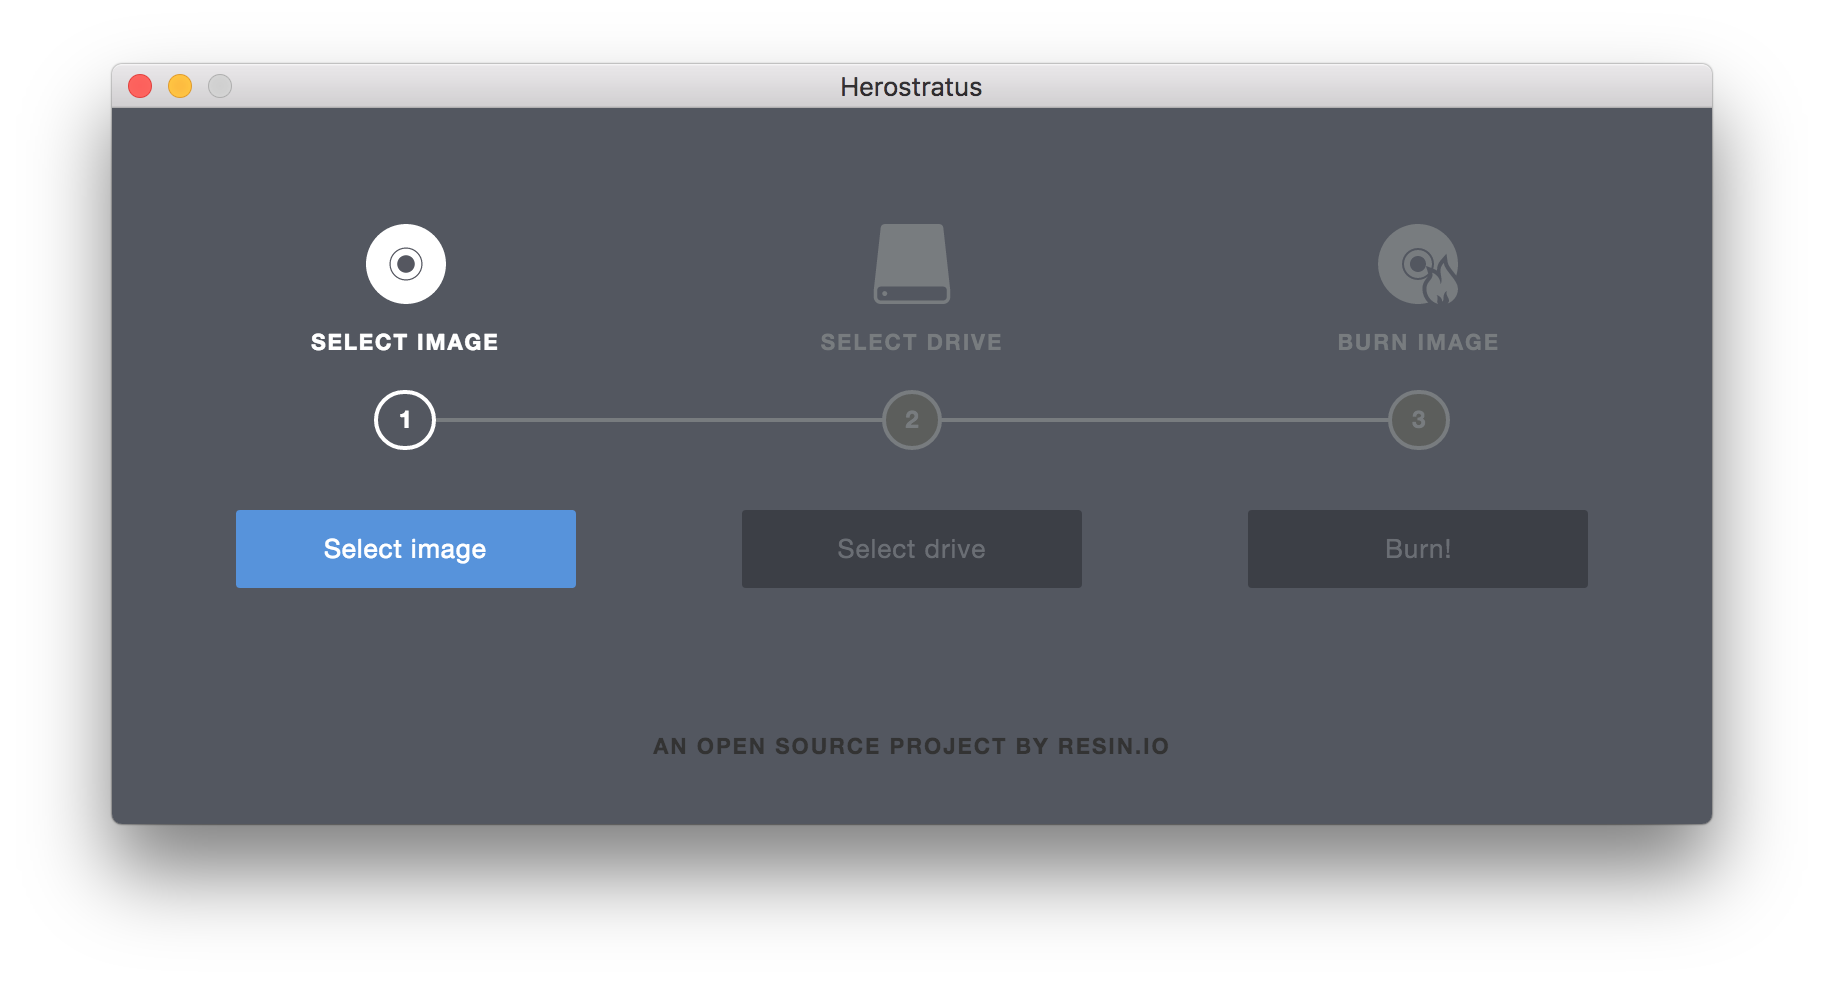
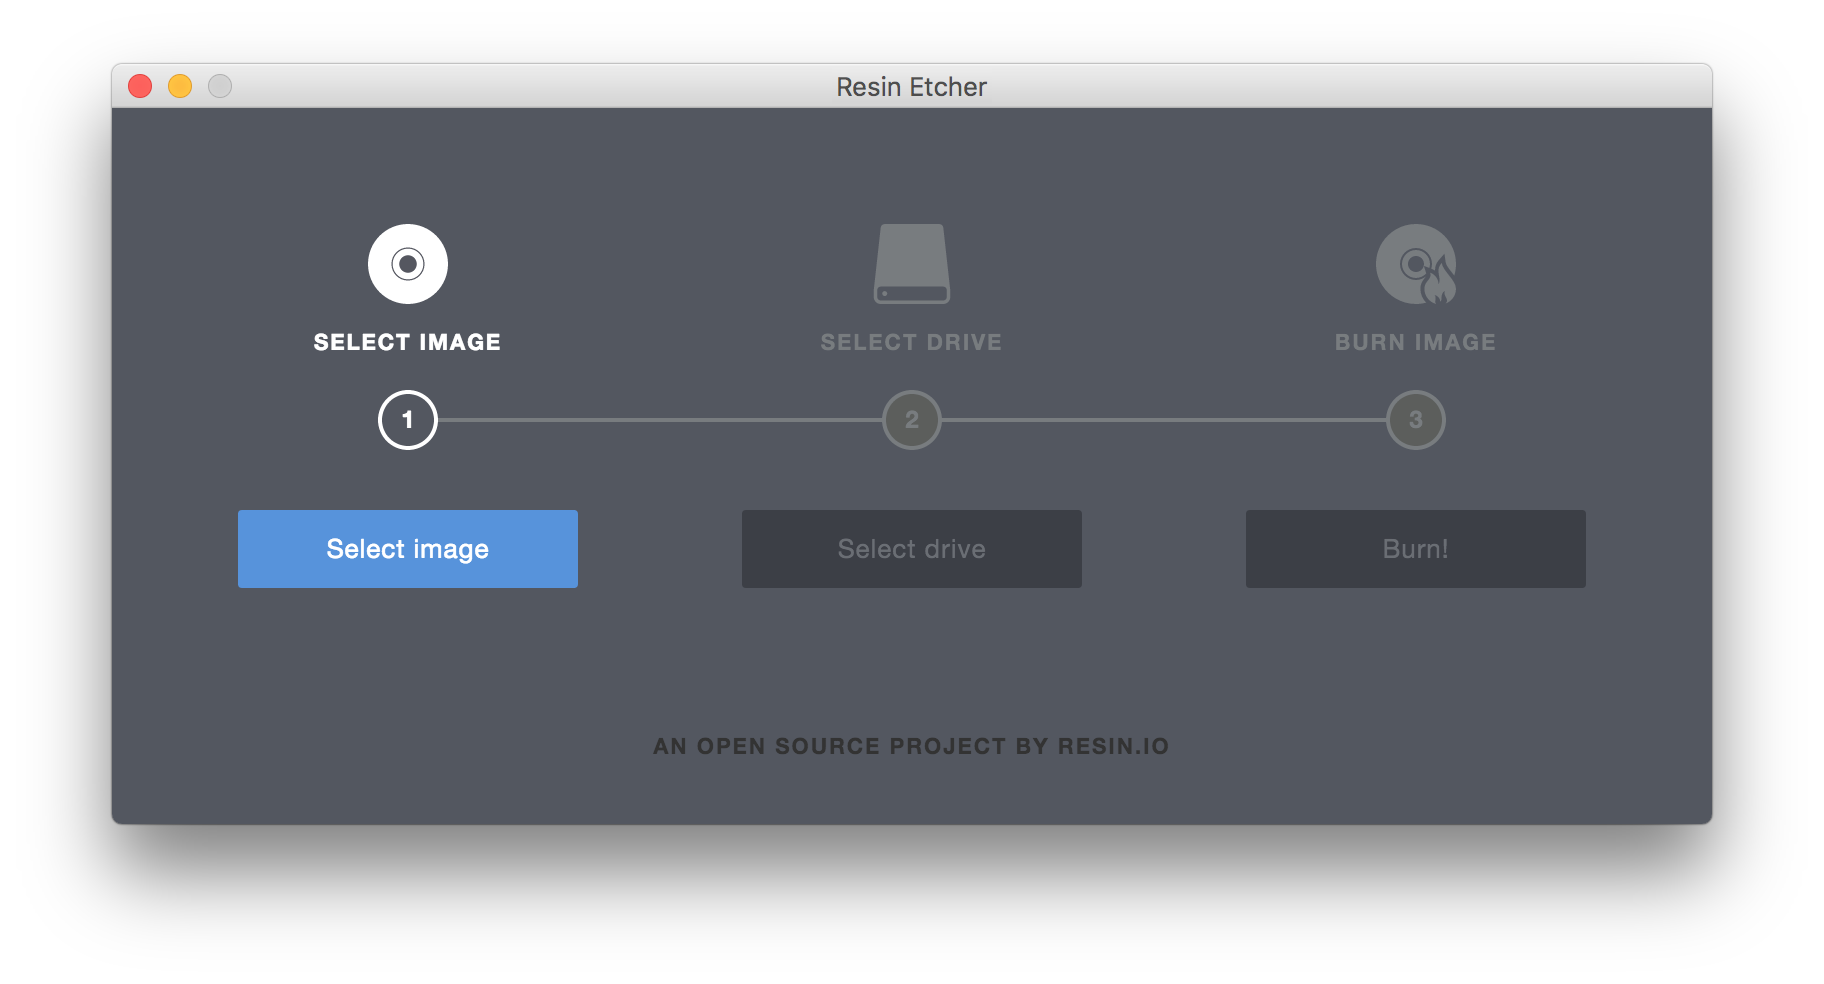
Rename Herostratus to Resin Etcher

diff --git a/build/browser/app.js b/build/browser/app.js
@@ -23,7 +23,7 @@
  */
 
 /**
- * @module herostratus
+ * @module ResinEtcher
  */
 
 var angular = require('angular');
@@ -37,14 +37,14 @@ require('./modules/drive-scanner');
 require('./modules/image-writer');
 require('./modules/path');
 
-var app = angular.module('Herostratus', [
+var app = angular.module('ResinEtcher', [
   'ui.bootstrap',
 
-  // Herostratus modules
-  'herostratus.path',
-  'herostratus.selection-state',
-  'herostratus.drive-scanner',
-  'herostratus.image-writer'
+  // Resin Etcher modules
+  'ResinEtcher.path',
+  'ResinEtcher.selection-state',
+  'ResinEtcher.drive-scanner',
+  'ResinEtcher.image-writer'
 ]);
 
 app.controller('AppController', function($q, DriveScannerService, SelectionStateService, ImageWriterService) {
@@ -122,7 +122,7 @@ app.controller('AppController', function($q, DriveScannerService, SelectionState
  */
 
 /**
- * @module herostratus.drive-scanner
+ * @module ResinEtcher.drive-scanner
  */
 
 var angular = require('angular');
@@ -139,7 +139,7 @@ if (window.mocha) {
   var dialog = remote.require('./src/dialog');
 }
 
-var driveScanner = angular.module('herostratus.drive-scanner', []);
+var driveScanner = angular.module('ResinEtcher.drive-scanner', []);
 
 driveScanner.service('DriveScannerRefreshService', function($interval) {
   'use strict';
@@ -300,7 +300,7 @@ driveScanner.service('DriveScannerService', function($q, DriveScannerRefreshServ
  */
 
 /**
- * @module herostratus.image-writer
+ * @module ResinEtcher.image-writer
  */
 
 var angular = require('angular');
@@ -312,7 +312,7 @@ if (window.mocha) {
   var writer = remote.require('./src/writer');
 }
 
-var imageWriter = angular.module('herostratus.image-writer', []);
+var imageWriter = angular.module('ResinEtcher.image-writer', []);
 
 imageWriter.service('ImageWriterService', function($q, $timeout) {
   'use strict';
@@ -466,13 +466,13 @@ imageWriter.service('ImageWriterService', function($q, $timeout) {
  */
 
 /**
- * @module herostratus.path
+ * @module ResinEtcher.path
  */
 
 var angular = require('angular');
 var path = require('path');
 
-var pathModule = angular.module('herostratus.path', []);
+var pathModule = angular.module('ResinEtcher.path', []);
 
 pathModule.filter('basename', function() {
   'use strict';
@@ -516,11 +516,11 @@ pathModule.filter('basename', function() {
  */
 
 /**
- * @module herostratus.selection-state
+ * @module ResinEtcher.selection-state
  */
 
 var angular = require('angular');
-var selectionState = angular.module('herostratus.selection-state', []);
+var selectionState = angular.module('ResinEtcher.selection-state', []);
 
 selectionState.service('SelectionStateService', function() {
   'use strict';

diff --git a/lib/index.html b/lib/index.html
@@ -1,7 +1,7 @@
 <!DOCTYPE html>
 <html>
   <head>
-    <title>Herostratus</title>
+    <title>Resin Etcher</title>
     <link rel="stylesheet" type="text/css" href="../node_modules/flexboxgrid/dist/flexboxgrid.css">
     <link rel="stylesheet" type="text/css" href="../build/css/main.css">
 
@@ -14,7 +14,7 @@
 
     <script src="../build/browser/app.js"></script>
   </head>
-  <body ng-app="Herostratus" ng-controller="AppController as app" style="display: none">
+  <body ng-app="ResinEtcher" ng-controller="AppController as app" style="display: none">
 
     <div class="content row middle-xs space-horizontal-large">
       <div class="col-xs">
@@ -120,7 +120,7 @@
     </div>
 
     <div class="text-center section-footer">
-      <hero-caption><span ng-click="app.open('https://github.com/resin-io/herostratus')">AN OPEN SOURCE PROJECT</span> BY <span ng-click="app.open('https://resin.io')">RESIN.IO</span></hero-caption>
+      <hero-caption><span ng-click="app.open('https://github.com/resin-io/resin-etcher')">AN OPEN SOURCE PROJECT</span> BY <span ng-click="app.open('https://resin.io')">RESIN.IO</span></hero-caption>
     </div>
   </body>
 </html>

diff --git a/lib/browser/app.js b/lib/browser/app.js
@@ -22,7 +22,7 @@
  */
 
 /**
- * @module herostratus
+ * @module ResinEtcher
  */
 
 var angular = require('angular');
@@ -36,14 +36,14 @@ require('./modules/drive-scanner');
 require('./modules/image-writer');
 require('./modules/path');
 
-var app = angular.module('Herostratus', [
+var app = angular.module('ResinEtcher', [
   'ui.bootstrap',
 
-  // Herostratus modules
-  'herostratus.path',
-  'herostratus.selection-state',
-  'herostratus.drive-scanner',
-  'herostratus.image-writer'
+  // Resin Etcher modules
+  'ResinEtcher.path',
+  'ResinEtcher.selection-state',
+  'ResinEtcher.drive-scanner',
+  'ResinEtcher.image-writer'
 ]);
 
 app.controller('AppController', function($q, DriveScannerService, SelectionStateService, ImageWriterService) {

diff --git a/lib/browser/modules/drive-scanner.js b/lib/browser/modules/drive-scanner.js
@@ -22,7 +22,7 @@
  */
 
 /**
- * @module herostratus.drive-scanner
+ * @module ResinEtcher.drive-scanner
  */
 
 var angular = require('angular');
@@ -39,7 +39,7 @@ if (window.mocha) {
   var dialog = remote.require('./src/dialog');
 }
 
-var driveScanner = angular.module('herostratus.drive-scanner', []);
+var driveScanner = angular.module('ResinEtcher.drive-scanner', []);
 
 driveScanner.service('DriveScannerRefreshService', function($interval) {
   'use strict';

diff --git a/lib/browser/modules/image-writer.js b/lib/browser/modules/image-writer.js
@@ -22,7 +22,7 @@
  */
 
 /**
- * @module herostratus.image-writer
+ * @module ResinEtcher.image-writer
  */
 
 var angular = require('angular');
@@ -34,7 +34,7 @@ if (window.mocha) {
   var writer = remote.require('./src/writer');
 }
 
-var imageWriter = angular.module('herostratus.image-writer', []);
+var imageWriter = angular.module('ResinEtcher.image-writer', []);
 
 imageWriter.service('ImageWriterService', function($q, $timeout) {
   'use strict';

diff --git a/lib/browser/modules/selection-state.js b/lib/browser/modules/selection-state.js
@@ -22,11 +22,11 @@
  */
 
 /**
- * @module herostratus.selection-state
+ * @module ResinEtcher.selection-state
  */
 
 var angular = require('angular');
-var selectionState = angular.module('herostratus.selection-state', []);
+var selectionState = angular.module('ResinEtcher.selection-state', []);
 
 selectionState.service('SelectionStateService', function() {
   'use strict';

diff --git a/lib/browser/modules/path.js b/lib/browser/modules/path.js
@@ -22,13 +22,13 @@
  */
 
 /**
- * @module herostratus.path
+ * @module ResinEtcher.path
  */
 
 var angular = require('angular');
 var path = require('path');
 
-var pathModule = angular.module('herostratus.path', []);
+var pathModule = angular.module('ResinEtcher.path', []);
 
 pathModule.filter('basename', function() {
   'use strict';

diff --git a/tests/browser/modules/selection-state.spec.js b/tests/browser/modules/selection-state.spec.js
@@ -6,7 +6,7 @@ require('../../../lib/browser/modules/selection-state');
 describe('Browser: SelectionState', function() {
   'use strict';
 
-  beforeEach(angular.mock.module('herostratus.selection-state'));
+  beforeEach(angular.mock.module('ResinEtcher.selection-state'));
 
   describe('SelectionStateService', function() {
 

diff --git a/tests/browser/modules/drive-scanner.spec.js b/tests/browser/modules/drive-scanner.spec.js
@@ -6,7 +6,7 @@ require('../../../lib/browser/modules/drive-scanner');
 describe('Browser: DriveScanner', function() {
   'use strict';
 
-  beforeEach(angular.mock.module('herostratus.drive-scanner'));
+  beforeEach(angular.mock.module('ResinEtcher.drive-scanner'));
 
   describe('DriveScannerRefreshService', function() {
 

diff --git a/tests/browser/modules/image-writer.spec.js b/tests/browser/modules/image-writer.spec.js
@@ -6,7 +6,7 @@ require('../../../lib/browser/modules/image-writer');
 describe('Browser: ImageWriter', function() {
   'use strict';
 
-  beforeEach(angular.mock.module('herostratus.image-writer'));
+  beforeEach(angular.mock.module('ResinEtcher.image-writer'));
 
   describe('ImageWriterService', function() {
 

diff --git a/lib/elevate.js b/lib/elevate.js
@@ -48,7 +48,7 @@ exports.require = function(app, callback) {
         app.dock.hide();
 
         sudoPrompt.exec(process.argv.join(' '), {
-          name: 'Herostratus'
+          name: 'Resin Etcher'
         }, function(error) {
           if (error) {
             console.error(error.message);

diff --git a/tests/browser/modules/path.spec.js b/tests/browser/modules/path.spec.js
@@ -7,7 +7,7 @@ require('../../../lib/browser/modules/path');
 describe('Browser: Path', function() {
   'use strict';
 
-  beforeEach(angular.mock.module('herostratus.path'));
+  beforeEach(angular.mock.module('ResinEtcher.path'));
 
   describe('BasenameFilter', function() {
 
